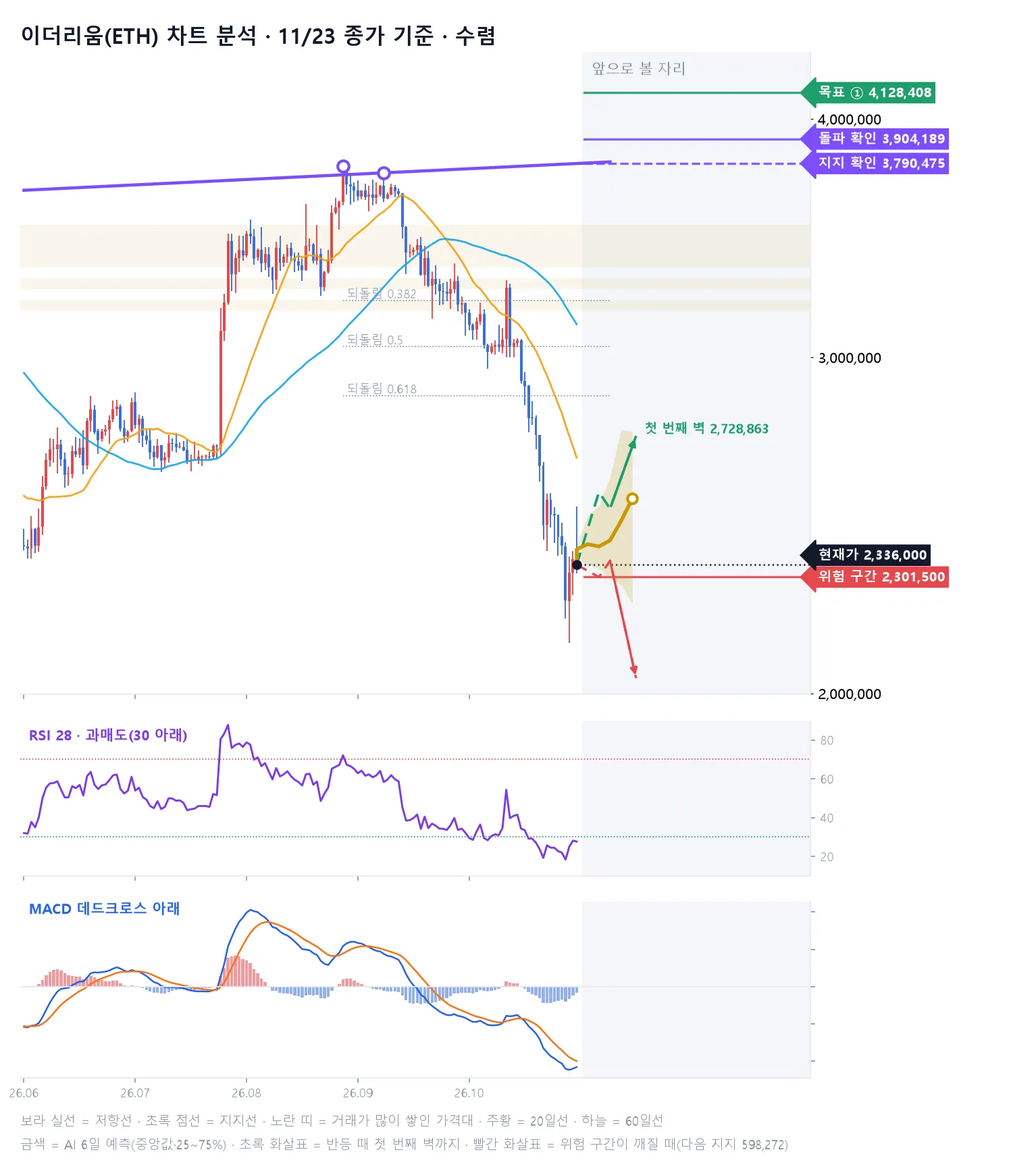
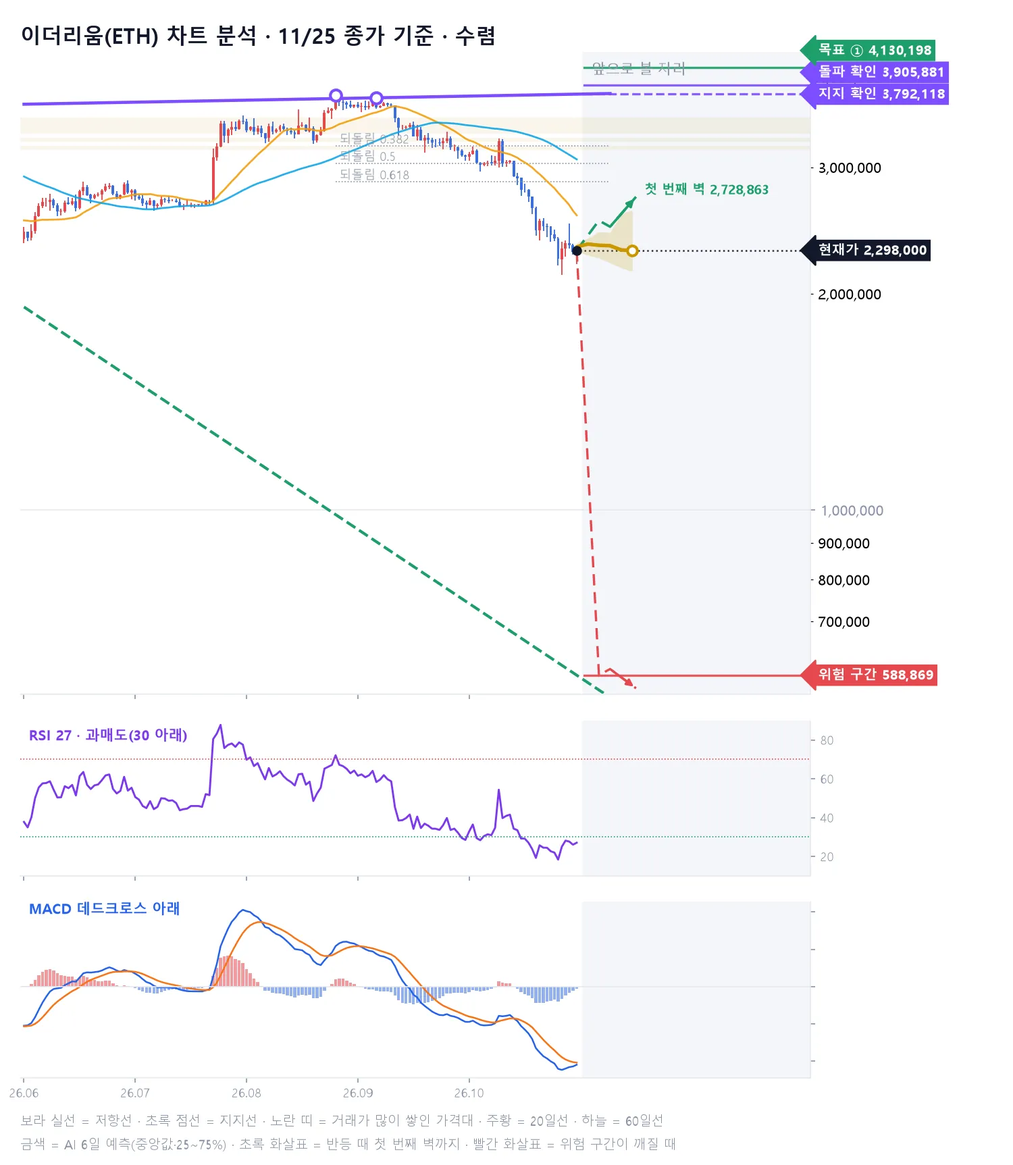
무료 공개 종목 페이지 자동 갱신

diff --git a/s/index.html b/s/index.html
@@ -93,8 +93,8 @@
     <h1>오늘의 무료 공개 종목</h1>
     <p style="margin:0;color:#B7BFD0">유튜브 쇼츠에 나온 종목의 AI 판정과 6일 예측 흐름을 누구나 볼 수 있어요</p>
   </section>
-  <div class="pk-list"><a class="card pk-item" href="BTC/"><span><b>비트코인(BTC)</b><small>코인 · 업비트 · 11/25 예측</small></span><b class="v-up">상승</b></a><a class="card pk-item" href="ZRO/"><span><b>레이어제로(ZRO)</b><small>코인 · 업비트 · 11/26 예측</small></span><b class="v-up">상승</b></a><a class="card pk-item" href="AAVE/"><span><b>에이브(AAVE)</b><small>코인 · 업비트 · 11/26 예측</small></span><b class="v-up">상승</b></a><a class="card pk-item" href="ENS/"><span><b>이더리움네임서비스(ENS)</b><small>코인 · 업비트 · 11/26 예측</small></span><b class="v-up">상승</b></a><a class="card pk-item" href="1INCH/"><span><b>1인치네트워크(1INCH)</b><small>코인 · 업비트 · 11/26 예측</small></span><b class="v-mx">혼돈</b></a><a class="card pk-item" href="XLM/"><span><b>스텔라루멘(XLM)</b><small>코인 · 업비트 · 11/26 예측</small></span><b class="v-up">상승</b></a><a class="card pk-item" href="NVIDIA/"><span><b>엔비디아(NVDA)</b><small>미국 주식 · 11/25 예측</small></span><b class="v-up">상승</b></a><a class="card pk-item" href="%EC%82%BC%EC%84%B1%EC%A0%84%EC%9E%90/"><span><b>삼성전자(005930)</b><small>코스피200 · 11/26 예측</small></span><b class="v-mx">혼돈</b></a><a class="card pk-item" href="%ED%98%84%EB%8C%80%EA%B1%B4%EC%84%A4/"><span><b>현대건설</b><small>코스피200 · 11/26 예측</small></span><b class="v-up">상승</b></a><a class="card pk-item" href="KODEXWTI%EC%9B%90%EC%9C%A0%EC%84%A0%EB%AC%BCH/"><span><b>KODEXWTI원유선물H</b><small>코스피200 · 11/26 예측</small></span><b class="v-up">상승</b></a><a class="card pk-item" href="%EB%AF%B8%EB%9E%98%EC%97%90%EC%85%8B%EC%A6%9D%EA%B6%8C/"><span><b>미래에셋증권</b><small>코스피200 · 11/26 예측</small></span><b class="v-up">상승</b></a><a class="card pk-item" href="TIGER%EB%AF%B8%EA%B5%AD%ED%85%8C%ED%81%ACTOP10/"><span><b>TIGER미국테크TOP10</b><small>코스피200 · 11/26 예측</small></span><b class="v-up">상승</b></a><a class="card pk-item" href="KODEX200/"><span><b>KODEX200</b><small>코스피200 · 11/26 예측</small></span><b class="v-up">상승</b></a><a class="card pk-item" href="KOSDAQ/"><span><b>코스닥(KOSDAQ)</b><small>코스피 지수 · 11/26 예측</small></span><b class="v-up">상승</b></a><a class="card pk-item" href="KOSPI/"><span><b>코스피(KOSPI)</b><small>코스피 지수 · 11/26 예측</small></span><b class="v-up">상승</b></a></div>
-  <h2 style="font-size:17px;margin:12px 0 0">지난 공개 종목</h2><div class="pk-list"><a class="card pk-item" href="CHZ/"><span><b>칠리즈(CHZ)</b><small>코인 · 업비트 · 11/25 예측</small></span><b class="v-up">상승</b></a><a class="card pk-item" href="ARK/"><span><b>아크(ARK)</b><small>코인 · 업비트 · 11/25 예측</small></span><b class="v-mx">혼돈</b></a><a class="card pk-item" href="RUSSELL2000/"><span><b>러셀2000(RUSSELL2000)</b><small>미국 주식 · 11/25 예측</small></span><b class="v-up">상승</b></a><a class="card pk-item" href="MONSTER_BEVERAGE/"><span><b>몬스터 베버리지(MONSTER_BEVERAGE)</b><small>미국 주식 · 11/25 예측</small></span><b class="v-up">상승</b></a><a class="card pk-item" href="BITMINE/"><span><b>비트마인(BITMINE)</b><small>미국 주식 · 11/25 예측</small></span><b class="v-up">상승</b></a><a class="card pk-item" href="INTUIT/"><span><b>인튜이트(INTUIT)</b><small>미국 주식 · 11/25 예측</small></span><b class="v-up">상승</b></a><a class="card pk-item" href="GALAXY_DIGITAL/"><span><b>갤럭시 디지털(GALAXY_DIGITAL)</b><small>미국 주식 · 11/25 예측</small></span><b class="v-up">상승</b></a><a class="card pk-item" href="%EC%82%BC%EC%84%B1%EB%B0%94%EC%9D%B4%EC%98%A4%EB%A1%9C%EC%A7%81%EC%8A%A4/"><span><b>삼성바이오로직스</b><small>코스피200 · 11/25 예측</small></span><b class="v-mx">혼돈</b></a><a class="card pk-item" href="%EA%B3%A0%EB%A0%A4%EC%95%84%EC%97%B0/"><span><b>고려아연</b><small>코스피200 · 11/25 예측</small></span><b class="v-up">상승</b></a><a class="card pk-item" href="HD%ED%95%9C%EA%B5%AD%EC%A1%B0%EC%84%A0%ED%95%B4%EC%96%91/"><span><b>HD한국조선해양</b><small>코스피200 · 11/25 예측</small></span><b class="v-mx">혼돈</b></a><a class="card pk-item" href="SK%EC%9D%B4%EB%85%B8%EB%B2%A0%EC%9D%B4%EC%85%98/"><span><b>SK이노베이션</b><small>코스피200 · 11/25 예측</small></span><b class="v-up">상승</b></a><a class="card pk-item" href="SK%ED%95%98%EC%9D%B4%EB%8B%89%EC%8A%A4/"><span><b>SK하이닉스(000660)</b><small>코스피200 · 11/24 예측</small></span><b class="v-up">상승</b></a><a class="card pk-item" href="ETH/"><span><b>이더리움(ETH)</b><small>코인 · 업비트 · 11/24 예측</small></span><b class="v-up">상승</b></a><a class="card pk-item" href="ATH/"><span><b>에이셔(ATH)</b><small>코인 · 업비트 · 11/24 예측</small></span><b class="v-up">상승</b></a><a class="card pk-item" href="DATA/"><span><b>데이터네트워크(DATA)</b><small>코인 · 업비트 · 11/24 예측</small></span><b class="v-mx">혼돈</b></a><a class="card pk-item" href="KODEX2%EC%B0%A8%EC%A0%84%EC%A7%80%EC%82%B0%EC%97%85/"><span><b>KODEX2차전지산업</b><small>코스피200 · 11/24 예측</small></span><b class="v-up">상승</b></a><a class="card pk-item" href="TIGER2%EC%B0%A8%EC%A0%84%EC%A7%80%ED%85%8C%EB%A7%88/"><span><b>TIGER2차전지테마</b><small>코스피200 · 11/24 예측</small></span><b class="v-up">상승</b></a><a class="card pk-item" href="KODEX%EC%9E%90%EB%8F%99%EC%B0%A8/"><span><b>KODEX자동차</b><small>코스피200 · 11/24 예측</small></span><b class="v-up">상승</b></a><a class="card pk-item" href="%ED%95%9C%ED%99%94/"><span><b>한화</b><small>코스피200 · 11/24 예측</small></span><b class="v-up">상승</b></a><a class="card pk-item" href="SAND/"><span><b>샌드박스(SAND)</b><small>코인 · 업비트 · 11/23 예측</small></span><b class="v-up">상승</b></a><a class="card pk-item" href="SUI/"><span><b>수이(SUI)</b><small>코인 · 업비트 · 11/23 예측</small></span><b class="v-up">상승</b></a><a class="card pk-item" href="MTL/"><span><b>메탈(MTL)</b><small>코인 · 업비트 · 11/22 예측</small></span><b class="v-up">상승</b></a><a class="card pk-item" href="TESLA/"><span><b>테슬라(TSLA)</b><small>미국 주식 · 11/21 예측</small></span><b class="v-up">상승</b></a><a class="card pk-item" href="PALANTIR/"><span><b>팔란티어(PALANTIR)</b><small>미국 주식 · 11/21 예측</small></span><b class="v-up">상승</b></a><a class="card pk-item" href="DOW/"><span><b>다우존스(DOW)</b><small>미국 주식 · 11/21 예측</small></span><b class="v-up">상승</b></a><a class="card pk-item" href="MERCADOLIBRE/"><span><b>메르카도리브레(MERCADOLIBRE)</b><small>미국 주식 · 11/21 예측</small></span><b class="v-up">상승</b></a><a class="card pk-item" href="%ED%95%9C%ED%99%94%EC%86%94%EB%A3%A8%EC%85%98/"><span><b>한화솔루션</b><small>코스피200 · 11/21 예측</small></span><b class="v-mx">혼돈</b></a><a class="card pk-item" href="KODEX%EB%AF%B8%EA%B5%AD%EB%82%98%EC%8A%A4%EB%8B%A5100TR/"><span><b>KODEX미국나스닥100TR</b><small>코스피200 · 11/21 예측</small></span><b class="v-up">상승</b></a><a class="card pk-item" href="ETC/"><span><b>이더리움클래식(ETC)</b><small>코인 · 업비트 · 11/21 예측</small></span><b class="v-up">상승</b></a><a class="card pk-item" href="MANA/"><span><b>디센트럴랜드(MANA)</b><small>코인 · 업비트 · 11/21 예측</small></span><b class="v-up">상승</b></a><a class="card pk-item" href="APT/"><span><b>앱토스(APT)</b><small>코인 · 업비트 · 11/20 예측</small></span><b class="v-up">상승</b></a><a class="card pk-item" href="STRAX/"><span><b>저트라(STRAX)</b><small>코인 · 업비트 · 11/20 예측</small></span><b class="v-up">상승</b></a><a class="card pk-item" href="%ED%95%9C%EC%A0%84%EA%B8%B0%EC%88%A0/"><span><b>한전기술</b><small>코스피200 · 11/20 예측</small></span><b class="v-up">상승</b></a><a class="card pk-item" href="KODEX%EA%B3%A8%EB%93%9C%EC%84%A0%EB%AC%BCH/"><span><b>KODEX골드선물H</b><small>코스피200 · 11/20 예측</small></span><b class="v-mx">혼돈</b></a><a class="card pk-item" href="STRATEGY/"><span><b>스트래티지(STRATEGY)</b><small>미국 주식 · 11/19 예측</small></span><b class="v-up">상승</b></a><a class="card pk-item" href="NETFLIX/"><span><b>넷플릭스(NETFLIX)</b><small>미국 주식 · 11/19 예측</small></span><b class="v-up">상승</b></a><a class="card pk-item" href="SHIB/"><span><b>시바이누(SHIB)</b><small>코인 · 업비트 · 11/19 예측</small></span><b class="v-up">상승</b></a><a class="card pk-item" href="TOKAMAK/"><span><b>토카막네트워크(TOKAMAK)</b><small>코인 · 업비트 · 11/19 예측</small></span><b class="v-up">상승</b></a><a class="card pk-item" href="TIGER%EB%AF%B8%EA%B5%ADSP500/"><span><b>TIGER미국SP500</b><small>코스피200 · 11/19 예측</small></span><b class="v-mx">혼돈</b></a><a class="card pk-item" href="%EA%B8%B0%EC%95%84/"><span><b>기아</b><small>코스피200 · 11/19 예측</small></span><b class="v-mx">혼돈</b></a><a class="card pk-item" href="%ED%98%84%EB%8C%80%EB%A1%9C%ED%85%9C/"><span><b>현대로템</b><small>코스피200 · 11/19 예측</small></span><b class="v-up">상승</b></a><a class="card pk-item" href="TIGER%EB%B0%98%EB%8F%84%EC%B2%B4TOP10/"><span><b>TIGER반도체TOP10</b><small>코스피200 · 11/19 예측</small></span><b class="v-up">상승</b></a><a class="card pk-item" href="MBL/"><span><b>무비블록(MBL)</b><small>코인 · 업비트 · 11/18 예측</small></span><b class="v-up">상승</b></a><a class="card pk-item" href="SC/"><span><b>시아코인(SC)</b><small>코인 · 업비트 · 11/18 예측</small></span><b class="v-up">상승</b></a><a class="card pk-item" href="ELF/"><span><b>엘프(ELF)</b><small>코인 · 업비트 · 11/18 예측</small></span><b class="v-up">상승</b></a><a class="card pk-item" href="NASDAQ100/"><span><b>나스닥100(NASDAQ100)</b><small>미국 주식 · 11/18 예측</small></span><b class="v-up">상승</b></a><a class="card pk-item" href="NASDAQ/"><span><b>나스닥(NASDAQ)</b><small>미국 주식 · 11/18 예측</small></span><b class="v-up">상승</b></a><a class="card pk-item" href="DB%ED%95%98%EC%9D%B4%ED%85%8D/"><span><b>DB하이텍</b><small>코스피200 · 11/18 예측</small></span><b class="v-up">상승</b></a><a class="card pk-item" href="%ED%95%9C%ED%99%94%EC%83%9D%EB%AA%85/"><span><b>한화생명</b><small>코스피200 · 11/18 예측</small></span><b class="v-mx">혼돈</b></a><a class="card pk-item" href="SOL/"><span><b>솔라나(SOL)</b><small>코인 · 업비트 · 11/17 예측</small></span><b class="v-up">상승</b></a><a class="card pk-item" href="HBAR/"><span><b>헤데라(HBAR)</b><small>코인 · 업비트 · 11/17 예측</small></span><b class="v-up">상승</b></a><a class="card pk-item" href="NEAR/"><span><b>니어프로토콜(NEAR)</b><small>코인 · 업비트 · 11/17 예측</small></span><b class="v-up">상승</b></a><a class="card pk-item" href="CISCO/"><span><b>시스코(CISCO)</b><small>미국 주식 · 11/17 예측</small></span><b class="v-up">상승</b></a><a class="card pk-item" href="DB%EC%86%90%ED%95%B4%EB%B3%B4%ED%97%98/"><span><b>DB손해보험</b><small>코스피200 · 11/17 예측</small></span><b class="v-up">상승</b></a><a class="card pk-item" href="NIKKEI225/"><span><b>NIKKEI225</b><small>코스피200 · 11/17 예측</small></span><b class="v-up">상승</b></a><a class="card pk-item" href="LG/"><span><b>LG</b><small>코스피200 · 11/17 예측</small></span><b class="v-up">상승</b></a><a class="card pk-item" href="NEO/"><span><b>네오(NEO)</b><small>코인 · 업비트 · 11/16 예측</small></span><b class="v-up">상승</b></a><a class="card pk-item" href="MED/"><span><b>메디블록(MED)</b><small>코인 · 업비트 · 11/16 예측</small></span><b class="v-up">상승</b></a><a class="card pk-item" href="VET/"><span><b>비체인(VET)</b><small>코인 · 업비트 · 11/16 예측</small></span><b class="v-up">상승</b></a><a class="card pk-item" href="TFUEL/"><span><b>쎄타퓨엘(TFUEL)</b><small>코인 · 업비트 · 11/16 예측</small></span><b class="v-up">상승</b></a><a class="card pk-item" href="SP500/"><span><b>S&amp;P500(SPX)</b><small>미국 주식 · 11/14 예측</small></span><b class="v-dn">하락</b></a><a class="card pk-item" href="BITCOIN_ETF_FIDELITY/"><span><b>비트코인 현물 피델리티(BITCOIN_ETF_FIDELITY)</b><small>미국 주식 · 11/14 예측</small></span><b class="v-up">상승</b></a><a class="card pk-item" href="BITCOIN_ETF_ISHARES/"><span><b>비트코인 현물 아이셰어즈(BITCOIN_ETF_ISHARES)</b><small>미국 주식 · 11/14 예측</small></span><b class="v-up">상승</b></a></div>
+  <div class="pk-list"><a class="card pk-item" href="BTC/"><span><b>비트코인(BTC)</b><small>코인 · 업비트 · 11/25 예측</small></span><b class="v-up">상승</b></a><a class="card pk-item" href="ETH/"><span><b>이더리움(ETH)</b><small>코인 · 업비트 · 11/26 예측</small></span><b class="v-mx">혼돈</b></a><a class="card pk-item" href="ZRO/"><span><b>레이어제로(ZRO)</b><small>코인 · 업비트 · 11/26 예측</small></span><b class="v-up">상승</b></a><a class="card pk-item" href="AAVE/"><span><b>에이브(AAVE)</b><small>코인 · 업비트 · 11/26 예측</small></span><b class="v-up">상승</b></a><a class="card pk-item" href="ENS/"><span><b>이더리움네임서비스(ENS)</b><small>코인 · 업비트 · 11/26 예측</small></span><b class="v-up">상승</b></a><a class="card pk-item" href="1INCH/"><span><b>1인치네트워크(1INCH)</b><small>코인 · 업비트 · 11/26 예측</small></span><b class="v-mx">혼돈</b></a><a class="card pk-item" href="XLM/"><span><b>스텔라루멘(XLM)</b><small>코인 · 업비트 · 11/26 예측</small></span><b class="v-up">상승</b></a><a class="card pk-item" href="NVIDIA/"><span><b>엔비디아(NVDA)</b><small>미국 주식 · 11/25 예측</small></span><b class="v-up">상승</b></a><a class="card pk-item" href="%EC%82%BC%EC%84%B1%EC%A0%84%EC%9E%90/"><span><b>삼성전자(005930)</b><small>코스피200 · 11/26 예측</small></span><b class="v-mx">혼돈</b></a><a class="card pk-item" href="%ED%98%84%EB%8C%80%EA%B1%B4%EC%84%A4/"><span><b>현대건설</b><small>코스피200 · 11/26 예측</small></span><b class="v-up">상승</b></a><a class="card pk-item" href="KODEXWTI%EC%9B%90%EC%9C%A0%EC%84%A0%EB%AC%BCH/"><span><b>KODEXWTI원유선물H</b><small>코스피200 · 11/26 예측</small></span><b class="v-up">상승</b></a><a class="card pk-item" href="%EB%AF%B8%EB%9E%98%EC%97%90%EC%85%8B%EC%A6%9D%EA%B6%8C/"><span><b>미래에셋증권</b><small>코스피200 · 11/26 예측</small></span><b class="v-up">상승</b></a><a class="card pk-item" href="TIGER%EB%AF%B8%EA%B5%AD%ED%85%8C%ED%81%ACTOP10/"><span><b>TIGER미국테크TOP10</b><small>코스피200 · 11/26 예측</small></span><b class="v-up">상승</b></a><a class="card pk-item" href="KODEX200/"><span><b>KODEX200</b><small>코스피200 · 11/26 예측</small></span><b class="v-up">상승</b></a><a class="card pk-item" href="KOSDAQ/"><span><b>코스닥(KOSDAQ)</b><small>코스피 지수 · 11/26 예측</small></span><b class="v-up">상승</b></a><a class="card pk-item" href="KOSPI/"><span><b>코스피(KOSPI)</b><small>코스피 지수 · 11/26 예측</small></span><b class="v-up">상승</b></a></div>
+  <h2 style="font-size:17px;margin:12px 0 0">지난 공개 종목</h2><div class="pk-list"><a class="card pk-item" href="CHZ/"><span><b>칠리즈(CHZ)</b><small>코인 · 업비트 · 11/25 예측</small></span><b class="v-up">상승</b></a><a class="card pk-item" href="ARK/"><span><b>아크(ARK)</b><small>코인 · 업비트 · 11/25 예측</small></span><b class="v-mx">혼돈</b></a><a class="card pk-item" href="RUSSELL2000/"><span><b>러셀2000(RUSSELL2000)</b><small>미국 주식 · 11/25 예측</small></span><b class="v-up">상승</b></a><a class="card pk-item" href="MONSTER_BEVERAGE/"><span><b>몬스터 베버리지(MONSTER_BEVERAGE)</b><small>미국 주식 · 11/25 예측</small></span><b class="v-up">상승</b></a><a class="card pk-item" href="BITMINE/"><span><b>비트마인(BITMINE)</b><small>미국 주식 · 11/25 예측</small></span><b class="v-up">상승</b></a><a class="card pk-item" href="INTUIT/"><span><b>인튜이트(INTUIT)</b><small>미국 주식 · 11/25 예측</small></span><b class="v-up">상승</b></a><a class="card pk-item" href="GALAXY_DIGITAL/"><span><b>갤럭시 디지털(GALAXY_DIGITAL)</b><small>미국 주식 · 11/25 예측</small></span><b class="v-up">상승</b></a><a class="card pk-item" href="%EC%82%BC%EC%84%B1%EB%B0%94%EC%9D%B4%EC%98%A4%EB%A1%9C%EC%A7%81%EC%8A%A4/"><span><b>삼성바이오로직스</b><small>코스피200 · 11/25 예측</small></span><b class="v-mx">혼돈</b></a><a class="card pk-item" href="%EA%B3%A0%EB%A0%A4%EC%95%84%EC%97%B0/"><span><b>고려아연</b><small>코스피200 · 11/25 예측</small></span><b class="v-up">상승</b></a><a class="card pk-item" href="HD%ED%95%9C%EA%B5%AD%EC%A1%B0%EC%84%A0%ED%95%B4%EC%96%91/"><span><b>HD한국조선해양</b><small>코스피200 · 11/25 예측</small></span><b class="v-mx">혼돈</b></a><a class="card pk-item" href="SK%EC%9D%B4%EB%85%B8%EB%B2%A0%EC%9D%B4%EC%85%98/"><span><b>SK이노베이션</b><small>코스피200 · 11/25 예측</small></span><b class="v-up">상승</b></a><a class="card pk-item" href="SK%ED%95%98%EC%9D%B4%EB%8B%89%EC%8A%A4/"><span><b>SK하이닉스(000660)</b><small>코스피200 · 11/24 예측</small></span><b class="v-up">상승</b></a><a class="card pk-item" href="ATH/"><span><b>에이셔(ATH)</b><small>코인 · 업비트 · 11/24 예측</small></span><b class="v-up">상승</b></a><a class="card pk-item" href="DATA/"><span><b>데이터네트워크(DATA)</b><small>코인 · 업비트 · 11/24 예측</small></span><b class="v-mx">혼돈</b></a><a class="card pk-item" href="KODEX2%EC%B0%A8%EC%A0%84%EC%A7%80%EC%82%B0%EC%97%85/"><span><b>KODEX2차전지산업</b><small>코스피200 · 11/24 예측</small></span><b class="v-up">상승</b></a><a class="card pk-item" href="TIGER2%EC%B0%A8%EC%A0%84%EC%A7%80%ED%85%8C%EB%A7%88/"><span><b>TIGER2차전지테마</b><small>코스피200 · 11/24 예측</small></span><b class="v-up">상승</b></a><a class="card pk-item" href="KODEX%EC%9E%90%EB%8F%99%EC%B0%A8/"><span><b>KODEX자동차</b><small>코스피200 · 11/24 예측</small></span><b class="v-up">상승</b></a><a class="card pk-item" href="%ED%95%9C%ED%99%94/"><span><b>한화</b><small>코스피200 · 11/24 예측</small></span><b class="v-up">상승</b></a><a class="card pk-item" href="SAND/"><span><b>샌드박스(SAND)</b><small>코인 · 업비트 · 11/23 예측</small></span><b class="v-up">상승</b></a><a class="card pk-item" href="SUI/"><span><b>수이(SUI)</b><small>코인 · 업비트 · 11/23 예측</small></span><b class="v-up">상승</b></a><a class="card pk-item" href="MTL/"><span><b>메탈(MTL)</b><small>코인 · 업비트 · 11/22 예측</small></span><b class="v-up">상승</b></a><a class="card pk-item" href="TESLA/"><span><b>테슬라(TSLA)</b><small>미국 주식 · 11/21 예측</small></span><b class="v-up">상승</b></a><a class="card pk-item" href="PALANTIR/"><span><b>팔란티어(PALANTIR)</b><small>미국 주식 · 11/21 예측</small></span><b class="v-up">상승</b></a><a class="card pk-item" href="DOW/"><span><b>다우존스(DOW)</b><small>미국 주식 · 11/21 예측</small></span><b class="v-up">상승</b></a><a class="card pk-item" href="MERCADOLIBRE/"><span><b>메르카도리브레(MERCADOLIBRE)</b><small>미국 주식 · 11/21 예측</small></span><b class="v-up">상승</b></a><a class="card pk-item" href="%ED%95%9C%ED%99%94%EC%86%94%EB%A3%A8%EC%85%98/"><span><b>한화솔루션</b><small>코스피200 · 11/21 예측</small></span><b class="v-mx">혼돈</b></a><a class="card pk-item" href="KODEX%EB%AF%B8%EA%B5%AD%EB%82%98%EC%8A%A4%EB%8B%A5100TR/"><span><b>KODEX미국나스닥100TR</b><small>코스피200 · 11/21 예측</small></span><b class="v-up">상승</b></a><a class="card pk-item" href="ETC/"><span><b>이더리움클래식(ETC)</b><small>코인 · 업비트 · 11/21 예측</small></span><b class="v-up">상승</b></a><a class="card pk-item" href="MANA/"><span><b>디센트럴랜드(MANA)</b><small>코인 · 업비트 · 11/21 예측</small></span><b class="v-up">상승</b></a><a class="card pk-item" href="APT/"><span><b>앱토스(APT)</b><small>코인 · 업비트 · 11/20 예측</small></span><b class="v-up">상승</b></a><a class="card pk-item" href="STRAX/"><span><b>저트라(STRAX)</b><small>코인 · 업비트 · 11/20 예측</small></span><b class="v-up">상승</b></a><a class="card pk-item" href="%ED%95%9C%EC%A0%84%EA%B8%B0%EC%88%A0/"><span><b>한전기술</b><small>코스피200 · 11/20 예측</small></span><b class="v-up">상승</b></a><a class="card pk-item" href="KODEX%EA%B3%A8%EB%93%9C%EC%84%A0%EB%AC%BCH/"><span><b>KODEX골드선물H</b><small>코스피200 · 11/20 예측</small></span><b class="v-mx">혼돈</b></a><a class="card pk-item" href="STRATEGY/"><span><b>스트래티지(STRATEGY)</b><small>미국 주식 · 11/19 예측</small></span><b class="v-up">상승</b></a><a class="card pk-item" href="NETFLIX/"><span><b>넷플릭스(NETFLIX)</b><small>미국 주식 · 11/19 예측</small></span><b class="v-up">상승</b></a><a class="card pk-item" href="SHIB/"><span><b>시바이누(SHIB)</b><small>코인 · 업비트 · 11/19 예측</small></span><b class="v-up">상승</b></a><a class="card pk-item" href="TOKAMAK/"><span><b>토카막네트워크(TOKAMAK)</b><small>코인 · 업비트 · 11/19 예측</small></span><b class="v-up">상승</b></a><a class="card pk-item" href="TIGER%EB%AF%B8%EA%B5%ADSP500/"><span><b>TIGER미국SP500</b><small>코스피200 · 11/19 예측</small></span><b class="v-mx">혼돈</b></a><a class="card pk-item" href="%EA%B8%B0%EC%95%84/"><span><b>기아</b><small>코스피200 · 11/19 예측</small></span><b class="v-mx">혼돈</b></a><a class="card pk-item" href="%ED%98%84%EB%8C%80%EB%A1%9C%ED%85%9C/"><span><b>현대로템</b><small>코스피200 · 11/19 예측</small></span><b class="v-up">상승</b></a><a class="card pk-item" href="TIGER%EB%B0%98%EB%8F%84%EC%B2%B4TOP10/"><span><b>TIGER반도체TOP10</b><small>코스피200 · 11/19 예측</small></span><b class="v-up">상승</b></a><a class="card pk-item" href="MBL/"><span><b>무비블록(MBL)</b><small>코인 · 업비트 · 11/18 예측</small></span><b class="v-up">상승</b></a><a class="card pk-item" href="SC/"><span><b>시아코인(SC)</b><small>코인 · 업비트 · 11/18 예측</small></span><b class="v-up">상승</b></a><a class="card pk-item" href="ELF/"><span><b>엘프(ELF)</b><small>코인 · 업비트 · 11/18 예측</small></span><b class="v-up">상승</b></a><a class="card pk-item" href="NASDAQ100/"><span><b>나스닥100(NASDAQ100)</b><small>미국 주식 · 11/18 예측</small></span><b class="v-up">상승</b></a><a class="card pk-item" href="NASDAQ/"><span><b>나스닥(NASDAQ)</b><small>미국 주식 · 11/18 예측</small></span><b class="v-up">상승</b></a><a class="card pk-item" href="DB%ED%95%98%EC%9D%B4%ED%85%8D/"><span><b>DB하이텍</b><small>코스피200 · 11/18 예측</small></span><b class="v-up">상승</b></a><a class="card pk-item" href="%ED%95%9C%ED%99%94%EC%83%9D%EB%AA%85/"><span><b>한화생명</b><small>코스피200 · 11/18 예측</small></span><b class="v-mx">혼돈</b></a><a class="card pk-item" href="SOL/"><span><b>솔라나(SOL)</b><small>코인 · 업비트 · 11/17 예측</small></span><b class="v-up">상승</b></a><a class="card pk-item" href="HBAR/"><span><b>헤데라(HBAR)</b><small>코인 · 업비트 · 11/17 예측</small></span><b class="v-up">상승</b></a><a class="card pk-item" href="NEAR/"><span><b>니어프로토콜(NEAR)</b><small>코인 · 업비트 · 11/17 예측</small></span><b class="v-up">상승</b></a><a class="card pk-item" href="CISCO/"><span><b>시스코(CISCO)</b><small>미국 주식 · 11/17 예측</small></span><b class="v-up">상승</b></a><a class="card pk-item" href="DB%EC%86%90%ED%95%B4%EB%B3%B4%ED%97%98/"><span><b>DB손해보험</b><small>코스피200 · 11/17 예측</small></span><b class="v-up">상승</b></a><a class="card pk-item" href="NIKKEI225/"><span><b>NIKKEI225</b><small>코스피200 · 11/17 예측</small></span><b class="v-up">상승</b></a><a class="card pk-item" href="LG/"><span><b>LG</b><small>코스피200 · 11/17 예측</small></span><b class="v-up">상승</b></a><a class="card pk-item" href="NEO/"><span><b>네오(NEO)</b><small>코인 · 업비트 · 11/16 예측</small></span><b class="v-up">상승</b></a><a class="card pk-item" href="MED/"><span><b>메디블록(MED)</b><small>코인 · 업비트 · 11/16 예측</small></span><b class="v-up">상승</b></a><a class="card pk-item" href="VET/"><span><b>비체인(VET)</b><small>코인 · 업비트 · 11/16 예측</small></span><b class="v-up">상승</b></a><a class="card pk-item" href="TFUEL/"><span><b>쎄타퓨엘(TFUEL)</b><small>코인 · 업비트 · 11/16 예측</small></span><b class="v-up">상승</b></a><a class="card pk-item" href="SP500/"><span><b>S&amp;P500(SPX)</b><small>미국 주식 · 11/14 예측</small></span><b class="v-dn">하락</b></a><a class="card pk-item" href="BITCOIN_ETF_FIDELITY/"><span><b>비트코인 현물 피델리티(BITCOIN_ETF_FIDELITY)</b><small>미국 주식 · 11/14 예측</small></span><b class="v-up">상승</b></a><a class="card pk-item" href="BITCOIN_ETF_ISHARES/"><span><b>비트코인 현물 아이셰어즈(BITCOIN_ETF_ISHARES)</b><small>미국 주식 · 11/14 예측</small></span><b class="v-up">상승</b></a></div>
   <section class="card pk-cta">
     <b style="font-size:17px">전체 종목 순위와 모델별 차트는 회원 화면에서</b>
     <a class="btn big red" href="../login.html?next=index.html#signup" data-member="../index.html" data-member-text="내 포털로 가기">7일 무료로 시작하기</a>

diff --git a/s/ETH/index.html b/s/ETH/index.html
@@ -3,13 +3,13 @@
 <head>
 <meta charset="utf-8">
 <meta name="viewport" content="width=device-width, initial-scale=1">
-<title>이더리움(ETH) 전망 11/24 · AI 52개 모델 6일 예측 | AI 신호등</title>
-<meta name="description" content="11/24 기준 이더리움(ETH) 다음 거래일 AI 판정은 &#x27;상승&#x27;. 52개 모델 중 상승 40 · 하락 10. 6일 뒤 예측 중앙값 +8.3%. 52개 예측 모델의 6일 가격 흐름을 신호등으로 정리했어요.">
+<title>이더리움(ETH) 전망 11/26 · AI 52개 모델 6일 예측 | AI 신호등</title>
+<meta name="description" content="11/26 기준 이더리움(ETH) 다음 거래일 AI 판정은 &#x27;혼돈&#x27;. 52개 모델 중 상승 29 · 하락 8. 6일 뒤 예측 중앙값 -0.1%. 52개 예측 모델의 6일 가격 흐름을 신호등으로 정리했어요.">
 <link rel="canonical" href="https://www.ai-sinhodeung.co.kr/s/ETH/">
 <meta property="og:type" content="article">
 <meta property="og:site_name" content="AI 신호등">
-<meta property="og:title" content="이더리움(ETH) 전망 11/24 · AI 52개 모델 6일 예측 | AI 신호등">
-<meta property="og:description" content="11/24 기준 이더리움(ETH) 다음 거래일 AI 판정은 &#x27;상승&#x27;. 52개 모델 중 상승 40 · 하락 10. 6일 뒤 예측 중앙값 +8.3%. 52개 예측 모델의 6일 가격 흐름을 신호등으로 정리했어요.">
+<meta property="og:title" content="이더리움(ETH) 전망 11/26 · AI 52개 모델 6일 예측 | AI 신호등">
+<meta property="og:description" content="11/26 기준 이더리움(ETH) 다음 거래일 AI 판정은 &#x27;혼돈&#x27;. 52개 모델 중 상승 29 · 하락 8. 6일 뒤 예측 중앙값 -0.1%. 52개 예측 모델의 6일 가격 흐름을 신호등으로 정리했어요.">
 <meta property="og:url" content="https://www.ai-sinhodeung.co.kr/s/ETH/">
 <meta property="og:image" content="https://www.ai-sinhodeung.co.kr/assets/og-image.png">
 <meta property="og:locale" content="ko_KR">
@@ -76,7 +76,7 @@
 .ca-g.npn { border-color: #C99700 !important; background: #FFF8E1; } .ca-g.npn b { color: #A87E00 !important; }
 .ca-flash { animation: caf 1.6s ease-out; } @keyframes caf { 0%, 40% { box-shadow: 0 0 0 3px #C99700; } 100% { box-shadow: 0 0 0 0 transparent; } }
 </style>
-<script type="application/ld+json">{"@context": "https://schema.org", "@type": "Article", "headline": "이더리움(ETH) 전망 11/24 · AI 52개 모델 6일 예측 | AI 신호등", "description": "11/24 기준 이더리움(ETH) 다음 거래일 AI 판정은 '상승'. 52개 모델 중 상승 40 · 하락 10. 6일 뒤 예측 중앙값 +8.3%. 52개 예측 모델의 6일 가격 흐름을 신호등으로 정리했어요.", "dateModified": "2026-11-24", "inLanguage": "ko", "url": "https://www.ai-sinhodeung.co.kr/s/ETH/", "publisher": {"@type": "Organization", "name": "AI 신호등", "url": "https://www.ai-sinhodeung.co.kr"}}</script>
+<script type="application/ld+json">{"@context": "https://schema.org", "@type": "Article", "headline": "이더리움(ETH) 전망 11/26 · AI 52개 모델 6일 예측 | AI 신호등", "description": "11/26 기준 이더리움(ETH) 다음 거래일 AI 판정은 '혼돈'. 52개 모델 중 상승 29 · 하락 8. 6일 뒤 예측 중앙값 -0.1%. 52개 예측 모델의 6일 가격 흐름을 신호등으로 정리했어요.", "dateModified": "2026-11-26", "inLanguage": "ko", "url": "https://www.ai-sinhodeung.co.kr/s/ETH/", "publisher": {"@type": "Organization", "name": "AI 신호등", "url": "https://www.ai-sinhodeung.co.kr"}}</script>
 </head>
 <body class="home landing">
 <header class="topbar">
@@ -89,65 +89,65 @@
 
 <main class="pk">
   <section class="pk-hero on-night">
-    <small>코인 · 업비트 · 11/24 예측 · AI 모델 52개</small>
+    <small>코인 · 업비트 · 11/26 예측 · AI 모델 52개</small>
     <h1>이더리움(ETH) 전망</h1>
   </section>
 
   <section class="card">
     <div class="pk-verdict">
-      <div class="lamp up" aria-hidden="true"><i></i><i></i><i></i></div>
+      <div class="lamp mx" aria-hidden="true"><i></i><i></i><i></i></div>
       <div><small style="color:var(--muted);font-size:12.5px">다음 거래일(D+1) AI 판정</small><br>
-        <b class="v-up">상승</b><br><span>52개 모델 중 상승 40 · 하락 10</span></div>
+        <b class="v-mx">혼돈</b><br><span>52개 모델 중 상승 29 · 하락 8</span></div>
     </div>
-    <p style="margin:10px 0 0;color:var(--sub);font-size:14px">참고: 박스권 횡보</p>
+    <p style="margin:10px 0 0;color:var(--sub);font-size:14px">참고: D+2 고점 후 되돌림</p>
   </section>
 
   <section class="card">
     <h3 style="margin-bottom:6px">6일 예측 흐름</h3>
-    <p class="hint" style="margin:0 0 10px;font-size:13px">기준가 2,336,000원 · 6일 뒤 예측 중앙값 <b class="v-up">+8.3%</b></p>
+    <p class="hint" style="margin:0 0 10px;font-size:13px">기준가 2,298,000원 · 6일 뒤 예측 중앙값 <b class="v-mx">-0.1%</b></p>
     <svg viewBox="0 0 520 300" role="img" aria-label="최근 8일 종가와 앞으로 6일 예측 범위" class="pk-chart">
   <line x1="277.1" y1="30" x2="277.1" y2="266" stroke="#C5CAD6" stroke-dasharray="4 4"/>
-  <polygon points="277.1,208.0 315.2,185.3 353.4,151.9 391.5,140.6 429.7,105.5 467.8,46.3 506.0,49.0 506.0,249.7 467.8,230.1 429.7,223.1 391.5,212.5 353.4,207.7 315.2,202.4 277.1,208.0" fill="#E5383B" fill-opacity=".14"/>
-  <polyline points="10.0,150.9 48.2,151.7 86.3,176.7 124.5,186.9 162.6,246.7 200.8,216.6 238.9,201.7 277.1,208.0" fill="none" stroke="#12182B" stroke-width="2.4" stroke-linejoin="round"/>
-  <polyline points="277.1,208.0 315.2,190.8 353.4,185.1 391.5,187.7 429.7,180.8 467.8,158.2 506.0,132.3" fill="none" stroke="#E5383B" stroke-width="3" stroke-linejoin="round"/>
-  <circle cx="277.1" cy="208.0" r="4.5" fill="#12182B"/>
-  <circle cx="506.0" cy="132.3" r="6" fill="#fff" stroke="#E5383B" stroke-width="3"/>
-  <text x="506" y="20" text-anchor="end" font-size="18" font-weight="700" fill="#E5383B">6일 뒤 +8.3%</text>
-  <text x="10" y="290" font-size="15" fill="#8A93A6">11-16</text>
-  <text x="277.1" y="290" font-size="15" fill="#12182B" text-anchor="middle" font-weight="600">11-23 기준</text>
-  <text x="506" y="290" font-size="15" fill="#8A93A6" text-anchor="end">11-29</text>
+  <polygon points="277.1,184.5 315.2,158.4 353.4,145.8 391.5,122.7 429.7,126.0 467.8,60.6 506.0,46.3 506.0,249.7 467.8,238.5 429.7,223.3 391.5,209.0 353.4,199.4 315.2,188.2 277.1,184.5" fill="#C99700" fill-opacity=".14"/>
+  <polyline points="10.0,133.3 48.2,144.6 86.3,211.0 124.5,177.6 162.6,161.1 200.8,168.0 238.9,189.3 277.1,184.5" fill="none" stroke="#12182B" stroke-width="2.4" stroke-linejoin="round"/>
+  <polyline points="277.1,184.5 315.2,173.1 353.4,164.0 391.5,168.0 429.7,169.5 467.8,183.0 506.0,185.0" fill="none" stroke="#C99700" stroke-width="3" stroke-linejoin="round"/>
+  <circle cx="277.1" cy="184.5" r="4.5" fill="#12182B"/>
+  <circle cx="506.0" cy="185.0" r="6" fill="#fff" stroke="#C99700" stroke-width="3"/>
+  <text x="506" y="20" text-anchor="end" font-size="18" font-weight="700" fill="#C99700">6일 뒤 -0.1%</text>
+  <text x="10" y="290" font-size="15" fill="#8A93A6">11-18</text>
+  <text x="277.1" y="290" font-size="15" fill="#12182B" text-anchor="middle" font-weight="600">11-25 기준</text>
+  <text x="506" y="290" font-size="15" fill="#8A93A6" text-anchor="end">12-01</text>
 </svg>
-    <div class="pk-legend"><span><i style="background:#12182B"></i>실제 종가</span><span><i style="background:#E5383B"></i>모델 예측 중앙값</span><span><i style="background:#E5383B;height:8px;opacity:.2"></i>모델 25~75% 범위</span></div>
+    <div class="pk-legend"><span><i style="background:#12182B"></i>실제 종가</span><span><i style="background:#C99700"></i>모델 예측 중앙값</span><span><i style="background:#C99700;height:8px;opacity:.2"></i>모델 25~75% 범위</span></div>
   </section>
 
 
   <section class="card pk-cta">
     <b style="font-size:17px">📐 차트로 보면 어떤 자리일까?</b>
-    <p style="font-size:15px;color:var(--ink)">📊 차트 신호 점수 <b style="color:#8A93A6">34점 · 약</b> · AI 포함 <b style="color:#C99700">47점 · 중</b></p>
+    <p style="font-size:15px;color:var(--ink)">📊 차트 신호 점수 <b style="color:#8A93A6">28점 · 약</b> · AI 포함 <b style="color:#8A93A6">32점 · 약</b></p>
     <button class="btn big" type="button" onclick="var c=document.getElementById('ca');c.classList.toggle('open');this.textContent=c.classList.contains('open')?'차트 분석 접기':'📐 차트 분석 보기';if(c.classList.contains('open')){c.scrollIntoView({behavior:'smooth'});try{Portal.track('pick_chart')}catch(e){}}">📐 차트 분석 보기</button>
     <p>추세선·지지선·피보나치·거래가 몰린 가격대를 자동으로 그려서, 앞으로 볼 자리를 정리했어요</p>
   </section>
 
   <section class="card ca" id="ca">
-    <h3 style="margin:0">이더리움(ETH) 차트 분석 <small style="color:var(--muted);font-weight:400;font-size:13px">11/23 종가 2,336,000원 기준</small></h3>
+    <h3 style="margin:0">이더리움(ETH) 차트 분석 <small style="color:var(--muted);font-weight:400;font-size:13px">11/25 종가 2,298,000원 기준</small></h3>
     <div class="ca-strip" aria-label="패턴 한눈에 (진한 색 = 해당, 빗금 = 근접)" onclick="var b=event.target.closest('button[data-k]');if(!b)return;var c=[].find.call(document.querySelectorAll('#ca .ca-g[data-k]'),function(d){return d.getAttribute('data-k')===b.getAttribute('data-k')});if(!c)return;c.scrollIntoView({behavior:'smooth',block:'center'});c.classList.remove('ca-flash');void c.offsetWidth;c.classList.add('ca-flash')"><button type="button" class="d" data-k="이동평균" title="이동평균 · 해당">역배열</button><span class="sep"></span><button type="button" class="off" data-k="역헤드앤숄더" title="역헤드앤숄더 · 아님">역헤드앤숄더</button><button type="button" class="off" data-k="헤드앤숄더" title="헤드앤숄더 · 아님">헤드앤숄더</button><button type="button" class="off" data-k="컵앤핸들" title="컵앤핸들 · 아님">컵앤핸들</button><button type="button" class="off" data-k="이중 바닥(W)" title="이중 바닥(W) · 아님">이중 바닥</button><button type="button" class="off" data-k="이중 천장(M)" title="이중 천장(M) · 아님">이중 천장</button><button type="button" class="off" data-k="하락쐐기" title="하락쐐기 · 아님">하락쐐기</button><button type="button" class="off" data-k="상승쐐기" title="상승쐐기 · 아님">상승쐐기</button><button type="button" class="off" data-k="3 Tight Closes" title="3 Tight Closes · 아님">3 Tight Closes</button><button type="button" class="off" data-k="상승 페넌트" title="상승 페넌트 · 아님">상승 페넌트</button><button type="button" class="off" data-k="상승 깃발" title="상승 깃발 · 아님">상승 깃발</button><button type="button" class="off" data-k="과장 상승 다이버전스" title="과장 상승 다이버전스 · 아님">과장 상승 다이버</button></div><small style="color:var(--muted);font-size:12px;margin-top:-8px">진한 색 = 해당 · 빗금 = 근접 · 누르면 아래 설명으로 가요</small>
-    <a href="chart.webp?v=2026-11-23" target="_blank" rel="noopener"><img src="chart.webp?v=2026-11-23" alt="이더리움(ETH) 차트 분석: 저항선·지지선·앞으로 볼 자리" loading="lazy"></a>
+    <a href="chart.webp?v=2026-11-25" target="_blank" rel="noopener"><img src="chart.webp?v=2026-11-25" alt="이더리움(ETH) 차트 분석: 저항선·지지선·앞으로 볼 자리" loading="lazy"></a>
     <small style="color:var(--muted);font-size:12px;margin-top:-8px">그림을 누르면 크게 볼 수 있어요</small>
     <div class="ca-pat">지금 모양: <b>수렴</b><br>가격 폭이 좁아지는 중 — 빠져나오는 방향을 확인해요</div>
     
     <div class="ca-score">
       <h4 style="margin:0 0 8px">📊 차트 신호 점검</h4>
       <h4 style="margin:4px 0 0">🔎 패턴 점검</h4><div class="ca-grid"><div class="ca-g" data-k="이동평균" style="border-color:#3B6FE0"><span>이동평균</span><b style="color:#3B6FE0">역배열</b></div><div class="ca-g off" data-k="역헤드앤숄더" style=""><span>역헤드앤숄더</span><b style="color:#9AA3B5">아님</b></div><div class="ca-g off" data-k="헤드앤숄더" style=""><span>헤드앤숄더</span><b style="color:#9AA3B5">아님</b></div><div class="ca-g off" data-k="컵앤핸들" style=""><span>컵앤핸들</span><b style="color:#9AA3B5">아님</b></div><div class="ca-g off" data-k="이중 바닥(W)" style=""><span>이중 바닥(W)</span><b style="color:#9AA3B5">아님</b></div><div class="ca-g off" data-k="이중 천장(M)" style=""><span>이중 천장(M)</span><b style="color:#9AA3B5">아님</b></div><div class="ca-g off" data-k="하락쐐기" style=""><span>하락쐐기</span><b style="color:#9AA3B5">아님</b></div><div class="ca-g off" data-k="상승쐐기" style=""><span>상승쐐기</span><b style="color:#9AA3B5">아님</b></div></div><small style="color:var(--muted);font-size:12px">가능성 = 모양이 만들어지는 중 · 정해 둔 규칙에 맞을 때만 표시해요</small><h4 style="margin:10px 0 0">🧩 매매 패턴 <small style="font-weight:400;color:var(--muted);font-size:12px">5년 검증에서 통한 4가지</small></h4><div class="ca-grid"><div class="ca-g off" data-k="3 Tight Closes"><span>3 Tight Closes</span><b>아님</b></div><div class="ca-g off" data-k="상승 페넌트"><span>상승 페넌트</span><b>아님</b></div><div class="ca-g off" data-k="상승 깃발"><span>상승 깃발</span><b>아님</b></div><div class="ca-g off" data-k="과장 상승 다이버전스"><span>과장 상승 다이버전스</span><b>아님</b></div></div>
-      <div class="ca-scs"><div class="ca-sc"><small>차트만 본 점수</small><b style="color:#8A93A6">34</b><span style="background:#8A93A6">약</span></div><div class="ca-sc"><small>AI 예측까지 넣은 점수</small><b style="color:#C99700">47</b><span style="background:#C99700">중</span></div></div>
+      <div class="ca-scs"><div class="ca-sc"><small>차트만 본 점수</small><b style="color:#8A93A6">28</b><span style="background:#8A93A6">약</span></div><div class="ca-sc"><small>AI 예측까지 넣은 점수</small><b style="color:#8A93A6">32</b><span style="background:#8A93A6">약</span></div></div>
       <div class="ca-chips"><span class="ca-chip">⚪ 수렴 · 형성 중</span></div>
-      <ul class="ca-ck"><li>▫ 반전 첫 신호(저점 상승)</li><li>▫ 전고 돌파(추세 완성)</li><li>✅ 거래량 1.5배</li><li>▫ 상승 다이버전스</li><li>▫ 하락 다이버전스 없음</li><li>▫ 큰 상승(깃대) +100%</li><li>▫ 되돌림 0.618 안</li></ul>
+      <ul class="ca-ck"><li>▫ 반전 첫 신호(저점 상승)</li><li>▫ 전고 돌파(추세 완성)</li><li>▫ 거래량 1.5배</li><li>▫ 상승 다이버전스</li><li>▫ 하락 다이버전스 없음</li><li>▫ 큰 상승(깃대) +100%</li><li>▫ 되돌림 0.618 안</li></ul>
       
-      <small style="color:var(--muted);font-size:12px">모양 10/40 · 점검표 6/42 · 시장 18/18 · AI 넣은 점수 = 차트×0.8 + AI 판정(상승 20·혼돈 10·하락 0) · 70↑ 강 · 40~69 중 · 40↓ 약<br>
+      <small style="color:var(--muted);font-size:12px">모양 10/40 · 점검표 0/42 · 시장 18/18 · AI 넣은 점수 = 차트×0.8 + AI 판정(상승 20·혼돈 10·하락 0) · 70↑ 강 · 40~69 중 · 40↓ 약<br>
       조건이 몇 개 맞는지 센 점수예요. 앞으로 오를 확률이 아니에요.</small>
     </div>
-    <div class="ca-combo"><b>🤖 AI 예측과 같이 보면</b><br>다음 거래일 AI 판정 &#x27;상승&#x27;. AI 6일 예측 중앙값은 +8.3%(2,529,651)로, 저항선(3,790,475)까지는 못 미쳐요 → 당분간은 돌파보다 아래 지지 자리를 지키는지 보는 구간이에요.</div>
-    <div><h4 style="margin:0 0 8px">앞으로 볼 자리</h4><div class="ca-lv"><div class="goal"><b>목표 구간 ③</b><span>5,043,088원</span><small>수평 고점</small></div><div class="goal"><b>목표 구간 ②</b><span>4,689,786원</span><small>피보 1.618</small></div><div class="goal"><b>목표 구간 ①</b><span>4,128,408원</span><small>패턴 높이</small></div><div class="watch"><b>돌파 확인 자리</b><span>3,904,189원</span><small>종가가 저항선보다 3% 넘게 위에서 마감 (돌파 뒤 3,676,760 아래로 다시 마감하면 돌파 실패)</small></div><div class="watch"><b>지지 확인 자리</b><span>3,790,475원</span><small>돌파 뒤 저항선이 받쳐 주는지</small></div><div class="risk"><b>위험 구간</b><span>2,301,500원</span><small>지금 가격 아래 지지선. 이 아래로 마감하면 하락 흐름이 이어질 수 있어요 — 깨지면 다음 지지 598,272까지 열려 있어요</small></div></div></div>
-    <div><h4 style="margin:0 0 6px">해석</h4><ul><li>지금 가격은 저항선보다 62% 아래예요. 아직 돌파를 말하기엔 거리가 있어요.</li><li>직전 큰 상승분을 모두 되돌렸어요. 새 바닥이 확인될 때까지는 조심스럽게 봐요.</li><li>아래에서 받쳐 줄 자리: 2,301,500 / 598,272</li><li>비트코인 상태: 특별한 경고 없음</li></ul></div>
+    <div class="ca-combo"><b>🤖 AI 예측과 같이 보면</b><br>다음 거래일 AI 판정 &#x27;혼돈&#x27;. AI 6일 예측 중앙값은 -0.1%(2,296,826)로, 저항선(3,792,118)까지는 못 미쳐요 → 당분간은 돌파보다 아래 지지 자리를 지키는지 보는 구간이에요.</div>
+    <div><h4 style="margin:0 0 8px">앞으로 볼 자리</h4><div class="ca-lv"><div class="goal"><b>목표 구간 ③</b><span>5,043,088원</span><small>수평 고점</small></div><div class="goal"><b>목표 구간 ②</b><span>4,689,786원</span><small>피보 1.618</small></div><div class="goal"><b>목표 구간 ①</b><span>4,130,198원</span><small>패턴 높이</small></div><div class="watch"><b>돌파 확인 자리</b><span>3,905,881원</span><small>종가가 저항선보다 3% 넘게 위에서 마감 (돌파 뒤 3,678,354 아래로 다시 마감하면 돌파 실패)</small></div><div class="watch"><b>지지 확인 자리</b><span>3,792,118원</span><small>돌파 뒤 저항선이 받쳐 주는지</small></div><div class="risk"><b>위험 구간</b><span>588,869원</span><small>지금 가격 아래 지지선. 이 아래로 마감하면 하락 흐름이 이어질 수 있어요</small></div></div></div>
+    <div><h4 style="margin:0 0 6px">해석</h4><ul><li>지금 가격은 저항선보다 65% 아래예요. 아직 돌파를 말하기엔 거리가 있어요.</li><li>직전 큰 상승분을 모두 되돌렸어요. 새 바닥이 확인될 때까지는 조심스럽게 봐요.</li><li>아래에서 받쳐 줄 자리: 588,869</li><li>비트코인 상태: 특별한 경고 없음</li></ul></div>
     <p class="pk-note" style="text-align:left">차트 모양을 규칙대로 자동 분석한 참고 자료예요. 특정 가격에 사고팔라는 권유가 아니며, 가격이 어느 자리에 있는지 보는 용도로만 써 주세요.</p>
   </section>
 
